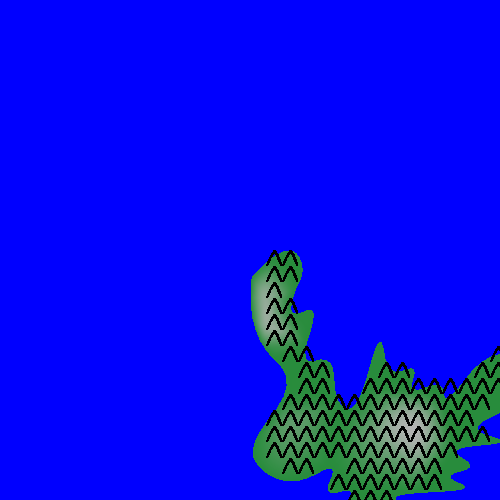
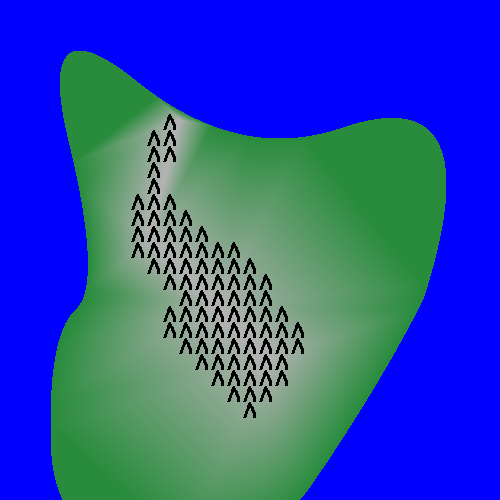
mała zmiana w interpolacji

diff --git a/python/World.py b/python/World.py
@@ -94,13 +94,14 @@ class World:
 
         valid_bl_coords = bottom_left_corners[bl_in_bounds]
         valid_br_coords = bottom_right_corners[br_in_bounds]
-
+        linia_wzgorz = (self.maks+self.mini)//3
+        linia_gor = 2*(self.maks+self.mini)//3
         if valid_bl_coords.size > 0:
-            is_left_on_land[bl_in_bounds] = ~np.isnan(land.height_map[valid_bl_coords[:, 1], valid_bl_coords[:, 0]])
+            is_left_on_land[bl_in_bounds] = (land.height_map[valid_bl_coords[:, 1], valid_bl_coords[:, 0]] > linia_gor)
         
         if valid_br_coords.size > 0:
-            is_right_on_land[br_in_bounds] = ~np.isnan(land.height_map[valid_br_coords[:, 1], valid_br_coords[:, 0]])
-
+            is_right_on_land[br_in_bounds] = (land.height_map[valid_br_coords[:, 1], valid_br_coords[:, 0]] > linia_gor)
+        
         is_inside = is_left_on_land & is_right_on_land
         squares_inside_polygon = squares[is_inside]
         
@@ -116,7 +117,7 @@ class World:
     def color_phases_negative(self,n: int) -> list[list[int]]:
         return [[0,255-255*i/n//2,0] for i in range(n+1)]
     
-    def paste_mountain_stamp_onto_map(self, land: Land, stamp_path="tallsmall.png", position=(0, 0), size=16):
+    def paste_mountain_stamp_onto_map(self, land: Land, stamp_path="tall3.png",mound_path="mound.png", position=(0, 0), size=16):
         try:
             stamp_img = Image.open(stamp_path).convert('RGBA')
         except FileNotFoundError:
@@ -359,7 +360,7 @@ class World:
 # # print(w.hmap)
 # #w.draw()
 # # #print(w.get_lowest_neighbor(river))
-source_image = Image.open('mountain_tall.png').convert('RGB')
-image_array = np.array(source_image)
+# source_image = Image.open('mountain_tall.png').convert('RGB')
+# image_array = np.array(source_image)
 # for x in image_array:
 #     print(x)

diff --git a/python/Land.py b/python/Land.py
@@ -16,6 +16,7 @@ def heights_to_ndarray(heights: list[InterpreterHeight]) -> np.ndarray:
 class Land:
     def __init__(self,points3D: np.ndarray,perimeter: Perimeter,start: list[int],function = None):
         self.start = start
+        self.steep = 1
         if(function==None):
             self.height_map , self.boundary_points = self.interpolate_heightmap_from_points(points3D,perimeter)
         else:
@@ -57,7 +58,7 @@ class Land:
         xi = np.linspace(min(x),max(x),int(max(x)-min(x))+1)
         yi = np.linspace(min(y),max(y),int(max(y)-min(y))+1)
         xi,yi = np.meshgrid(xi,yi)
-        zi = griddata((x,y),z,(xi,yi),method='cubic')
+        zi = griddata((x,y),z,(xi,yi),method='linear')
         boundary_points = np.column_stack([perimeter.x, perimeter.y])
         boundary_path = Path(boundary_points)
         grid_points = np.column_stack([xi.flatten(), yi.flatten()]).reshape(-1, 2)
